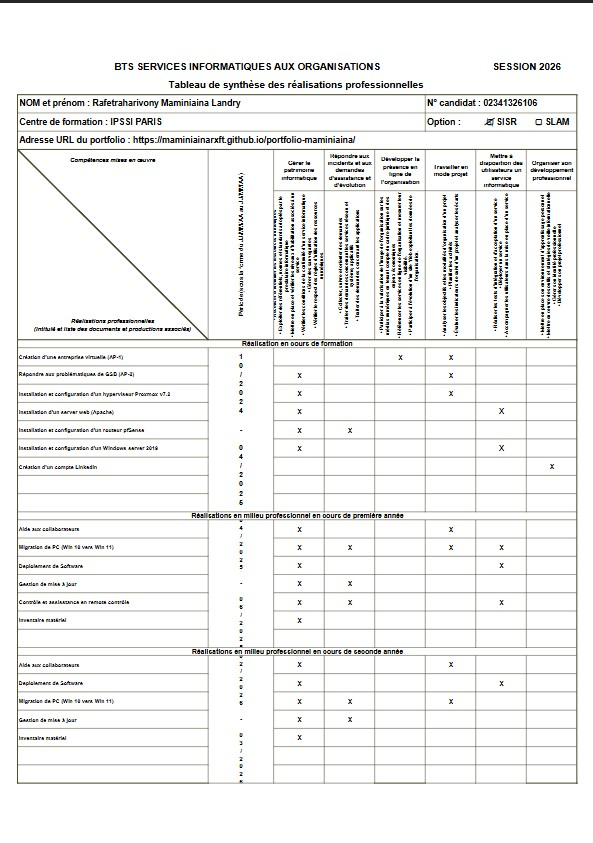
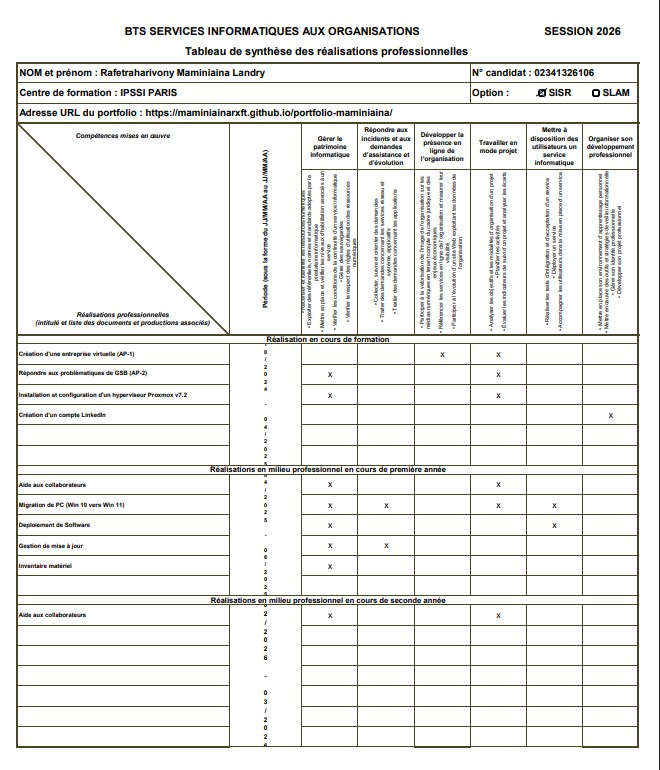
code 1

Changed region(s): [[0.0, 0.0, 1.0, 0.9662], [0.1214, 0.2494, 0.2125, 0.3117], [0.0911, 0.2182, 0.1214, 0.2494]]

diff --git a/src/App.jsx b/src/App.jsx
@@ -366,7 +366,7 @@ export default function Portfolio() {
                       </div>
                     </div>
                     {/* Boutons rendus nettement plus lisibles */}
-                    <a href="/Documentation_Migration_OS.pdf" download className="ml-8 inline-flex items-center gap-2 text-sm font-bold bg-indigo-600 hover:bg-indigo-500 text-white px-4 py-2.5 rounded-lg transition-colors shadow-md w-fit">
+                    <a href="Documentation_Migration_OS.pdf" download className="ml-8 inline-flex items-center gap-2 text-sm font-bold bg-indigo-600 hover:bg-indigo-500 text-white px-4 py-2.5 rounded-lg transition-colors shadow-md w-fit">
                       <FiDownload /> Doc. Migration OS
                     </a>
                   </div>
@@ -380,7 +380,7 @@ export default function Portfolio() {
                         <p className="text-sm text-gray-400">Résolution d'incidents utilisateurs pour assurer une continuité d'activité fluide du siège et des entrepôts.</p>
                       </div>
                     </div>
-                    <button onClick={() => setZoomedImage('/Exemple ticket JIRA.png')} className="ml-8 inline-flex items-center gap-2 text-sm font-bold bg-pink-600 hover:bg-pink-500 text-white px-4 py-2.5 rounded-lg transition-colors shadow-md w-fit">
+                    <button onClick={() => setZoomedImage('Exemple ticket JIRA.png')} className="ml-8 inline-flex items-center gap-2 text-sm font-bold bg-pink-600 hover:bg-pink-500 text-white px-4 py-2.5 rounded-lg transition-colors shadow-md w-fit">
                       <FiZoomIn /> Aperçu Ticket JIRA
                     </button>
                   </div>
@@ -394,7 +394,7 @@ export default function Portfolio() {
                         <p className="text-sm text-gray-400">Administration courante Active Directory, onboarding/offboarding dans le respect de la politique de sécurité.</p>
                       </div>
                     </div>
-                    <a href="/Gestion de privilège AZURE.pdf" download className="ml-8 inline-flex items-center gap-2 text-sm font-bold bg-indigo-600 hover:bg-indigo-500 text-white px-4 py-2.5 rounded-lg transition-colors shadow-md w-fit">
+                    <a href="Gestion de privilège AZURE.pdf" download className="ml-8 inline-flex items-center gap-2 text-sm font-bold bg-indigo-600 hover:bg-indigo-500 text-white px-4 py-2.5 rounded-lg transition-colors shadow-md w-fit">
                       <FiDownload /> Doc. Privilèges AZURE
                     </a>
                   </div>
@@ -408,7 +408,7 @@ export default function Portfolio() {
                         <p className="text-sm text-gray-400">Industrialisation du déploiement logiciel de nouveaux postes pour fournir des équipements Plug & Play.</p>
                       </div>
                     </div>
-                    <button onClick={() => setZoomedImage('/Deploiement de software.png')} className="ml-8 inline-flex items-center gap-2 text-sm font-bold bg-pink-600 hover:bg-pink-500 text-white px-4 py-2.5 rounded-lg transition-colors shadow-md w-fit">
+                    <button onClick={() => setZoomedImage('Deploiement de software.png')} className="ml-8 inline-flex items-center gap-2 text-sm font-bold bg-pink-600 hover:bg-pink-500 text-white px-4 py-2.5 rounded-lg transition-colors shadow-md w-fit">
                       <FiZoomIn /> Aperçu Déploiement Logiciel
                     </button>
                   </div>
@@ -441,7 +441,7 @@ export default function Portfolio() {
                     <p className="text-sm text-gray-400">Résolution rapide des incidents rencontrés par les utilisateurs de l'association.</p>
                   </div>
                 </div>
-                <button onClick={() => setZoomedImage('/Ticket ANATOMS.jpg')} className="ml-8 inline-flex items-center gap-2 text-sm font-bold bg-pink-600 hover:bg-pink-500 text-white px-4 py-2.5 rounded-lg transition-colors shadow-md w-fit">
+                <button onClick={() => setZoomedImage('Ticket ANATOMS.jpg')} className="ml-8 inline-flex items-center gap-2 text-sm font-bold bg-pink-600 hover:bg-pink-500 text-white px-4 py-2.5 rounded-lg transition-colors shadow-md w-fit">
                   <FiZoomIn /> Aperçu Ticket ANATOM'S
                 </button>
               </div>
@@ -538,11 +538,11 @@ export default function Portfolio() {
                 </ul>
 
                 <div className="flex flex-wrap gap-4">
-                  <a href="/Tableau de synthese E4.pdf" download className="inline-flex items-center gap-2 px-6 py-3 rounded-xl bg-indigo-600 hover:bg-indigo-500 text-white font-bold shadow-lg shadow-indigo-600/30 hover:shadow-indigo-600/50 hover:-translate-y-1 transition-all">
+                  <a href="Tableau de synthese E4.pdf" download className="inline-flex items-center gap-2 px-6 py-3 rounded-xl bg-indigo-600 hover:bg-indigo-500 text-white font-bold shadow-lg shadow-indigo-600/30 hover:shadow-indigo-600/50 hover:-translate-y-1 transition-all">
                     <FiDownload className="text-xl" /> Télécharger E4
                   </a>
                   {/* Bouton Aperçu PDF amélioré pour un maximum de visibilité */}
-                  <button onClick={() => setZoomedImage('/Tableau de synthese E4.pdf')} className="inline-flex items-center gap-2 px-6 py-3 rounded-xl bg-pink-600 hover:bg-pink-500 text-white font-bold shadow-lg hover:-translate-y-1 transition-all">
+                  <button onClick={() => setZoomedImage('apercu_e4.jpg')} className="inline-flex items-center gap-2 px-6 py-3 rounded-xl bg-pink-600 hover:bg-pink-500 text-white font-bold shadow-lg hover:-translate-y-1 transition-all">
                     <FiZoomIn className="text-xl" /> Aperçu direct E4
                   </button>
                 </div>
